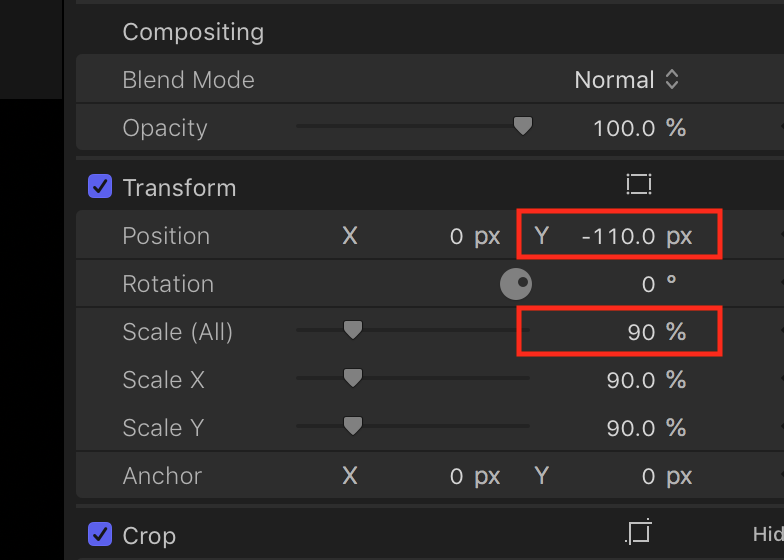
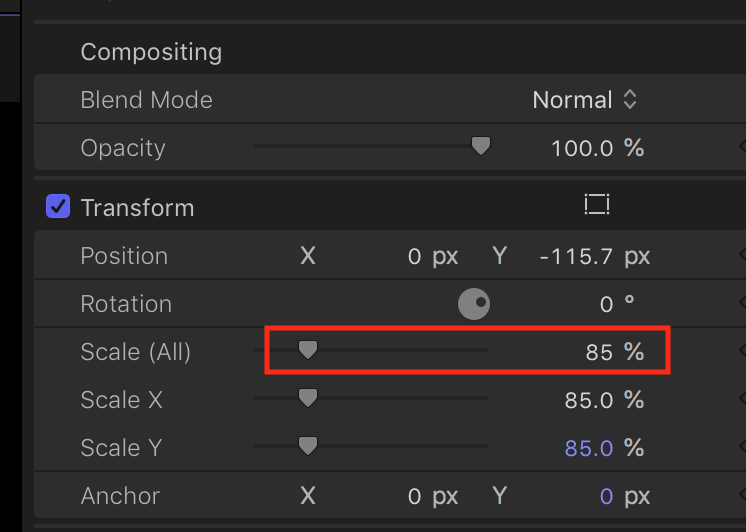
add open zone safe

diff --git a/README.md b/README.md
@@ -8,11 +8,23 @@
 <div align=left><img src="./res/arctime_adjust.png" width=95%></div>
 
 #### import to final cut
-scale font png to `90%` and put its y position to `-110`
+Effect -> LetterBox
+
+scale font png to `85%`
 
 <div align=left><img src="./res/subtitle_position.png" width=60%></div>
 
+#### open title safe zone
+<div align=left><img src="./res/safe_zone.png" width=60%></div>
+
+<div align=left><img src="./res/safe_zone2.png" width=100%></div>
+
 ### Add logo
-scale logo size to `23%` and drag it to right position
+scale logo size to `21%` and drag it to right position
 
 <div align=left><img src="./res/logo_position.png" width=60%></div>
+
+### Transition
+- `fade to color`
+- `cross dissolve` (Ctrl - T)
+- `censor` Mosaic
